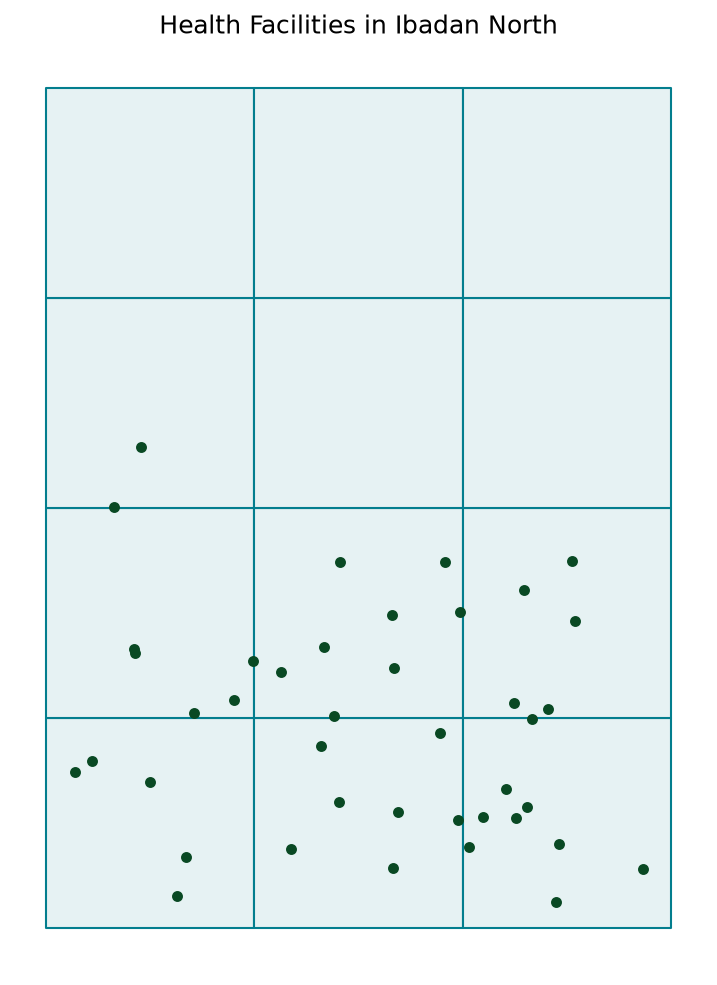
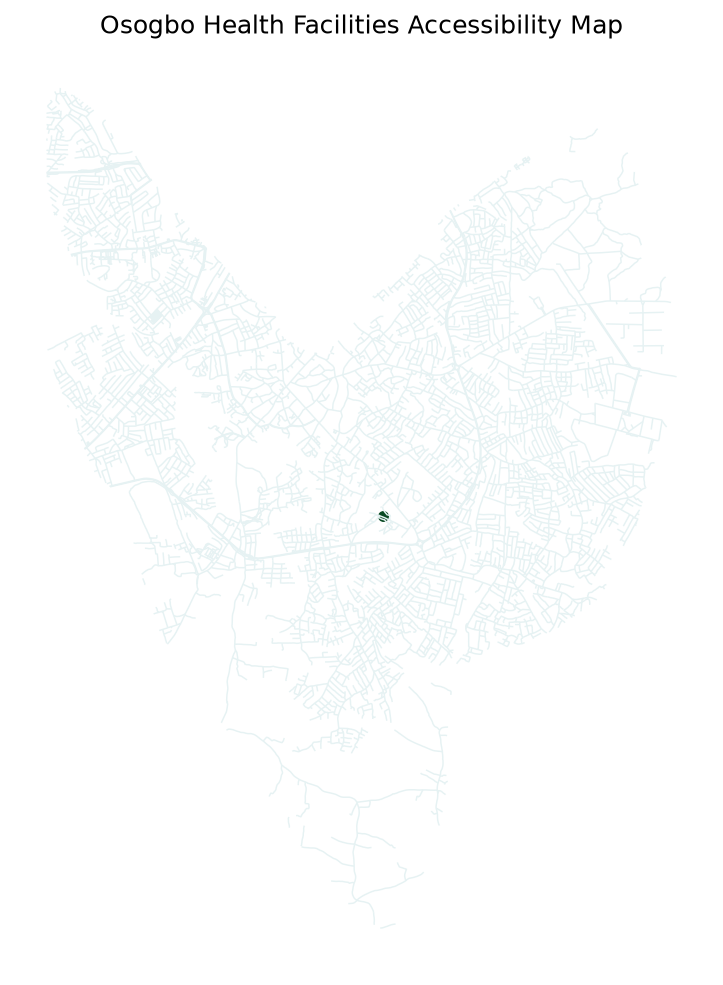
Week 10: explore, joinand map the teaching data

diff --git a/month-03/week-10/my_join.py b/month-03/week-10/my_join.py
@@ -1,0 +1,55 @@
+import pandas as pd
+import geopandas as gpd
+
+# Load health facilities
+facilities = gpd.read_file(
+    "data/processed/Osogbo_Health_Facilities.gpkg",
+    layer="facilities"
+)
+
+# Load road network
+roads = gpd.read_file(
+    "data/processed/Osogbo_Road_Lines.gpkg",
+    layer="osogbo_road_lines"
+)
+
+# Inspect health facilities
+print("Health Facilities")
+print(facilities.head())
+print("Total facilities:", len(facilities))
+print("CRS:", facilities.crs)
+
+# Inspect roads
+print("\nRoad Network")
+print(roads.head())
+print("Total road features:", len(roads))
+print("CRS:", roads.crs)
+
+# Reproject both datasets for metric analysis
+facilities = facilities.to_crs(epsg=32631)
+roads = roads.to_crs(epsg=32631)
+
+# Calculate road lengths
+roads["length_km"] = roads.geometry.length / 1000
+
+print("\nTotal road length (km):", roads["length_km"].sum())
+
+# Calculate nearest road distance for each facility
+nearest_roads = gpd.sjoin_nearest(
+    facilities,
+    roads[["geometry"]],
+    how="left",
+    distance_col="distance_to_road_m"
+)
+
+print("\nFacility proximity to roads:")
+print(nearest_roads[["distance_to_road_m"]].head())
+
+# Save results
+nearest_roads.to_file(
+    "data/processed/Osogbo_Facility_Road_Accessibility.gpkg",
+    layer="facility_accessibility",
+    driver="GPKG"
+)
+
+print("\nAccessibility analysis completed!")

diff --git a/month-03/week-10/my_map.py b/month-03/week-10/my_map.py
@@ -1,0 +1,36 @@
+
+import geopandas as gpd
+import matplotlib.pyplot as plt
+
+# Load roads
+roads = gpd.read_file(
+    "data/processed/Osogbo_Road_Lines.gpkg",
+    layer="osogbo_road_lines"
+)
+
+# Load health facilities
+facilities = gpd.read_file(
+    "data/processed/Osogbo_Health_Facilities.gpkg",
+    layer="facilities"
+)
+
+# Ensure both layers have the same CRS
+facilities = facilities.to_crs(roads.crs)
+
+# Create map
+fig, ax = plt.subplots(figsize=(7, 8))
+
+roads.plot(ax=ax, color="#E6F2F3", linewidth=0.7)
+
+facilities.plot(ax=ax, color="#094923", markersize=18)
+
+ax.set_title("Osogbo Health Facilities Accessibility Map")
+ax.set_axis_off()
+
+fig.savefig(
+    "month-03/week-10/facilities_map.png",
+    dpi=150,
+    bbox_inches="tight"
+)
+
+print("Map saved")

diff --git a/month-03/week-10/my_points.py b/month-03/week-10/my_points.py
@@ -1,0 +1,24 @@
+import pandas as pd
+import geopandas as gpd
+
+# Read CSV file
+table = pd.read_csv("data/raw/mydata.csv")
+
+print("Column names:", table.columns.tolist())
+print(table.head(3))
+
+# Convert CSV coordinates into spatial points
+facilities = gpd.GeoDataFrame(
+    table,
+    geometry=gpd.points_from_xy(table["center_lon"], table["center_lat"]),
+    crs="EPSG:4326", 
+)
+
+# Inspect the GeoDataFrame
+print(facilities.head(3))
+print(facilities.crs)
+print("Total facilities:", len(facilities))
+
+# Save as GeoPackage
+facilities.to_file("data/processed/Osogbo_Health_Facilities.gpkg", layer="facilities")
+print("Saved", len(facilities), "facilities")

diff --git a/month-03/week-10/my_explore.py b/month-03/week-10/my_explore.py
@@ -1,0 +1,11 @@
+import geopandas as gpd
+
+print(gpd.list_layers("data/processed/Osogbo_Road_Lines.gpkg"))
+
+road = gpd.read_file("data/processed/Osogbo_Road_Lines.gpkg", layer="Osogbo_Road_Lines")
+
+print(road.head())
+print("Rows and columns:", road.shape)
+print(road.geom_type.value_counts())
+print("CRS:", road.crs)
+print("Bounds:", road.total_bounds)
